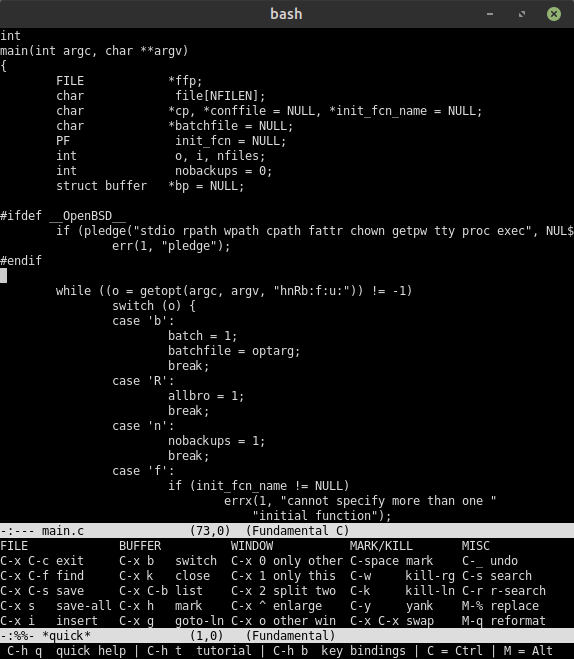
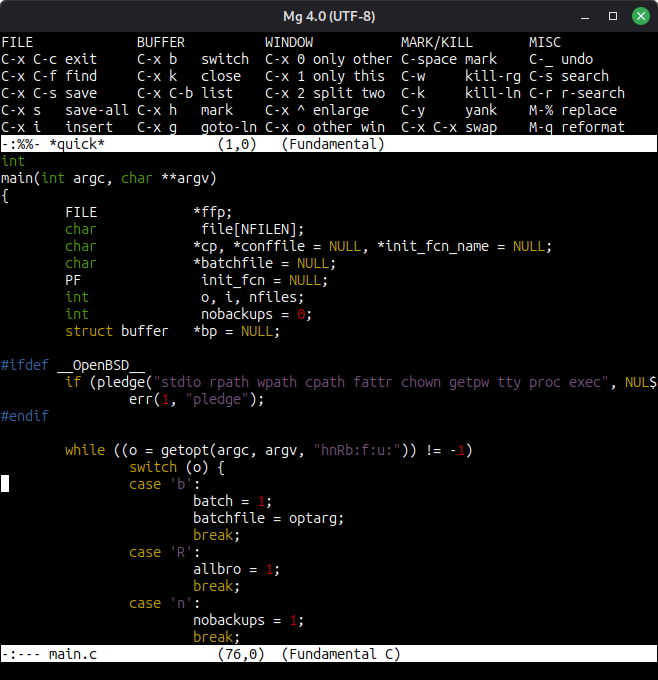
Update README, new screenshot to show off syntax highlighting

diff --git a/README.md b/README.md
@@ -1,10 +1,10 @@
 Micro (GNU) Emacs
 =================
-[![License Badge][]][License] [![GitHub Status][]][GitHub] [![Coverity Status][]][Coverity Scan]
+[![License Badge][]][License] [![Release Badge][]][Release] [![GitHub Status][]][GitHub] [![Coverity Status][]][Coverity Scan]
 
 Contents
 --------
-<a href="doc/mg.png"><img align="right" src="doc/mg.png" title="mg in action"></a>
+<a href="doc/mg.png"><img align="right" src="doc/mg.png" width=500 title="mg in action"></a>
 
 * [Introduction](#introduction)
 * [Usage](#usage)
@@ -12,7 +12,6 @@ Contents
 * [Docker](#docker)
 * [History](#history)
 * [Origin & References](#origin--references)
-
 
 Introduction
 ------------
@@ -30,10 +29,9 @@ reason to learn more than one Emacs flavor.
 
 > [!TIP]
 > Try the [latest release](https://github.com/troglobit/mg/releases/latest),
-> use the tarball with a version in the name, avoid GitHub generated links!
-> Releases come with a `configure` script, so you don't need autotools.
-> Only a C compiler, `make` and you're set to go.
-
+> use the tarball with a version in the name and a sha256 checksum next to it,
+> avoid GitHub generated links!  Releases come with a `configure` script, so
+> you don't need autotools.  Only a C compiler, `make` and you're set to go.
 
 Usage
 -----
@@ -55,7 +53,6 @@ To access the built-in Quick Help, press `C-h q`, meaning: hold down
 `Ctrl` and tap `h`, then release `Ctrl` and tap `q`.  The `-` has a
 meaning, as you can see.
 
-
 Building
 --------
 
@@ -63,8 +60,8 @@ This project is completely self hosting.  However, by default you need a
 termcap library, like [Ncurses][], to provide APIs like: `setupterm()`,
 `tgoto()`, and `tputs()`.
 
+> [!TIP]
 > See below for how to *build without Ncurses*.
-
 
 ### With termcap/terminfo/curses
 
@@ -97,14 +94,12 @@ Then build Mg from the unpacked release tarball:
     make
     sudo make install
 
-
 ### Without curses, completely stand-alone
 
     make clean
     ./configure --without-curses
 	make
 	sudo make install
-
 
 ### Building from GIT
 
@@ -133,7 +128,6 @@ with the official Mg.  By default, all below features are enabled:
     --with-mglog         Enable debugging to log file, default: ./log/*.log
     --without-curses     Build without curses/termcap, default: auto
 
-
 To build the smallest possible mg, with many features removed:
 
     ./configure --disable-all --enable-size-optimizations
@@ -145,7 +139,6 @@ To build a completely static mg with all features:
     ./configure LDFLAGS="-static"
     make
     sudo make install-strip
-
 
 Docker
 ------
@@ -161,7 +154,6 @@ To edit files from your host's `$HOME`, map it to the container's
 
 This supports reading your `~/.mg` and it even takes arguments on the
 command line.  Both quick help and the tutorial are bundled.
-
 
 History
 -------
@@ -188,15 +180,14 @@ goes something like this:
   tested on OmniOS and OpenIndiana, sync with Mg from OpenBSD 7.0
 * Apr 10, 2023: Mg v3.6, sync with OpenBSD, improved ctags support
 * Aug 13, 2023: Mg v3.7, sync with OpenBSD, improved usability
+* Jul 8, 2026: Mg v4.0, initial UTF-8 support by Joachim Wiberg
 
 See the source distribution for the list of [AUTHORS][].
 
-[^1]: This project has been extensively tested on Debian GNU/Linux,
-	Ubuntu, CentOS, Fedora, Alpine Linux, Solaris/Illumos based systems
-	like OmniOS, FreeBSD, NetBSD, OpenBSD, DragonFly BSD, Apple macOS >=
-	10.10, Cygwin, MSYS2, as well as a few embedded Linux systems using
-	musl libc and uClibc-ng.
-
+[^1]: This project has been extensively tested on Debian GNU/Linux, Ubuntu,
+      CentOS, Fedora, Alpine Linux, Solaris/Illumos based systems like OmniOS,
+      FreeBSD, NetBSD, OpenBSD, DragonFly BSD, Apple macOS >= 10.10, Cygwin,
+      MSYS2, as well as embedded Linux systems using musl libc and uClibc-ng.
 
 Origin & References
 -------------------
@@ -208,6 +199,13 @@ clones as possible, and, unlike the upstream OpenBSD version, enable
 hidden features using a standard GNU configure script, while remaining
 friendly to porting to resource constrained systems.  New features:
 
+* UTF-8 support: multibyte characters can be typed, displayed, and
+  edited in UTF-8 locales
+* Syntax highlighting in buffers with a language mode, `c-mode` and
+  the new `shell-script-mode`, toggled with `M-x font-lock-mode`
+* Visual mark mode: the region between mark and dot is shown in
+  reverse video, like transient-mark-mode in GNU Emacs
+* Side by side windows with `C-x 3`, `split-window-horizontally`
 * Emacs-like modeline with `(row,col)` and new `display-time-mode`
 * Support for building without curses, using termios + escape seq.
 * Support for exhuberant/universal ctags `tags` file format
@@ -219,13 +217,13 @@ friendly to porting to resource constrained systems.  New features:
 
 Merged, and continously tracked, clones:
 
-* http://cvsweb.openbsd.org/cgi-bin/cvsweb/src/usr.bin/mg/ (upstream)
-* https://github.com/hboetes/mg (active)
-* https://github.com/ibara/mg (active)
-* https://github.com/scott-parker/mg-openbsd (inactive since 2015)
-* https://github.com/paaguti/mg3a (continuation of Bengt Larsson's mg3a)
-* https://github.com/kisom/kmg (another inactive fork with Go support)
-* https://github.com/jasperla/tinyschemg (OpenBSD mg with tinyscheme)
+* <http://cvsweb.openbsd.org/cgi-bin/cvsweb/src/usr.bin/mg/> (upstream)
+* <https://github.com/hboetes/mg> (active)
+* <https://github.com/ibara/mg> (active)
+* <https://github.com/scott-parker/mg-openbsd> (inactive since 2015)
+* <https://github.com/paaguti/mg3a> (continuation of Bengt Larsson's mg3a)
+* <https://github.com/kisom/kmg> (another inactive fork with Go support)
+* <https://github.com/jasperla/tinyschemg> (OpenBSD mg with tinyscheme)
 
 > [!NOTE]
 > Han Boetes' [portable Mg][] project is what Debian and its derivatives
@@ -245,6 +243,8 @@ the GitHub issue tracker <https://github.com/troglobit/mg/issues>
 [AUTHORS]:         https://github.com/troglobit/mg/blob/master/doc/AUTHORS
 [License]:         https://unlicense.org/
 [License Badge]:   https://img.shields.io/badge/License-Unlicense-blue.svg
+[Release]:         https://github.com/troglobit/mg/releases
+[Release Badge]:   https://img.shields.io/github/v/release/troglobit/mg
 [GitHub]:          https://github.com/troglobit/mg/actions/workflows/build.yml/
 [GitHub Status]:   https://github.com/troglobit/mg/actions/workflows/build.yml/badge.svg
 [Coverity Scan]:   https://scan.coverity.com/projects/8859